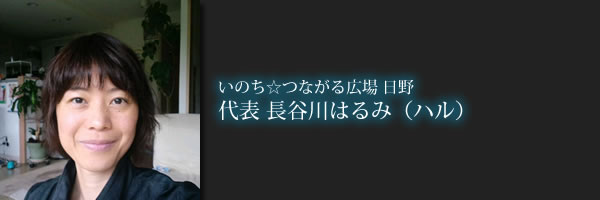
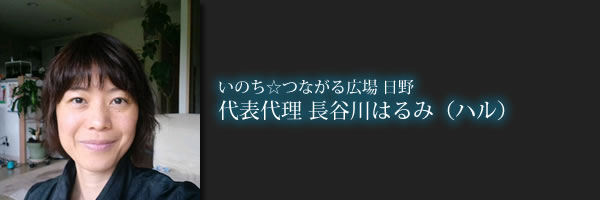
haru > daihyo dairi

Changed region(s): [[0.42, 0.48, 0.87, 0.63]]

diff --git a/index.html b/index.html
@@ -215,7 +215,7 @@
 								<li class="item-thumbs span3 design" data-id="id-1" data-type="web">
 									<a class="hover-wrap fancybox" data-fancybox-group="gallery" title="ご挨拶" href="img/leader/haru_w.jpg">
 										<span class="overlay-img"></span>
-										<span class="overlay-img-thumb " style="font-size:16px;margin-left:10px;margin-top:20px;left:0px">いのち☆つながる広場 日野<br>代表 長谷川はるみ</span>
+										<span class="overlay-img-thumb " style="font-size:16px;margin-left:10px;margin-top:20px;left:0px">いのち☆つながる広場 日野<br>代表代理 長谷川はるみ</span>
 									</a>
 									<img src="img/leader/haru.jpg" alt="
 &lt;div style='text-align:center'&gt;

diff --git a/haru.html b/haru.html
@@ -8,7 +8,7 @@
 				<div class="span6">
 
 <pre>
-<img src="img/leader/haru_w.jpg" alt="いのち☆つながる広場 日野 代表 長谷川はるみ">
+<img src="img/leader/haru_w.jpg" alt="いのち☆つながる広場 日野 代表代理 長谷川はるみ">
 
 <div style='text-align:center'>こんにちは！スタッフをしております、
 
